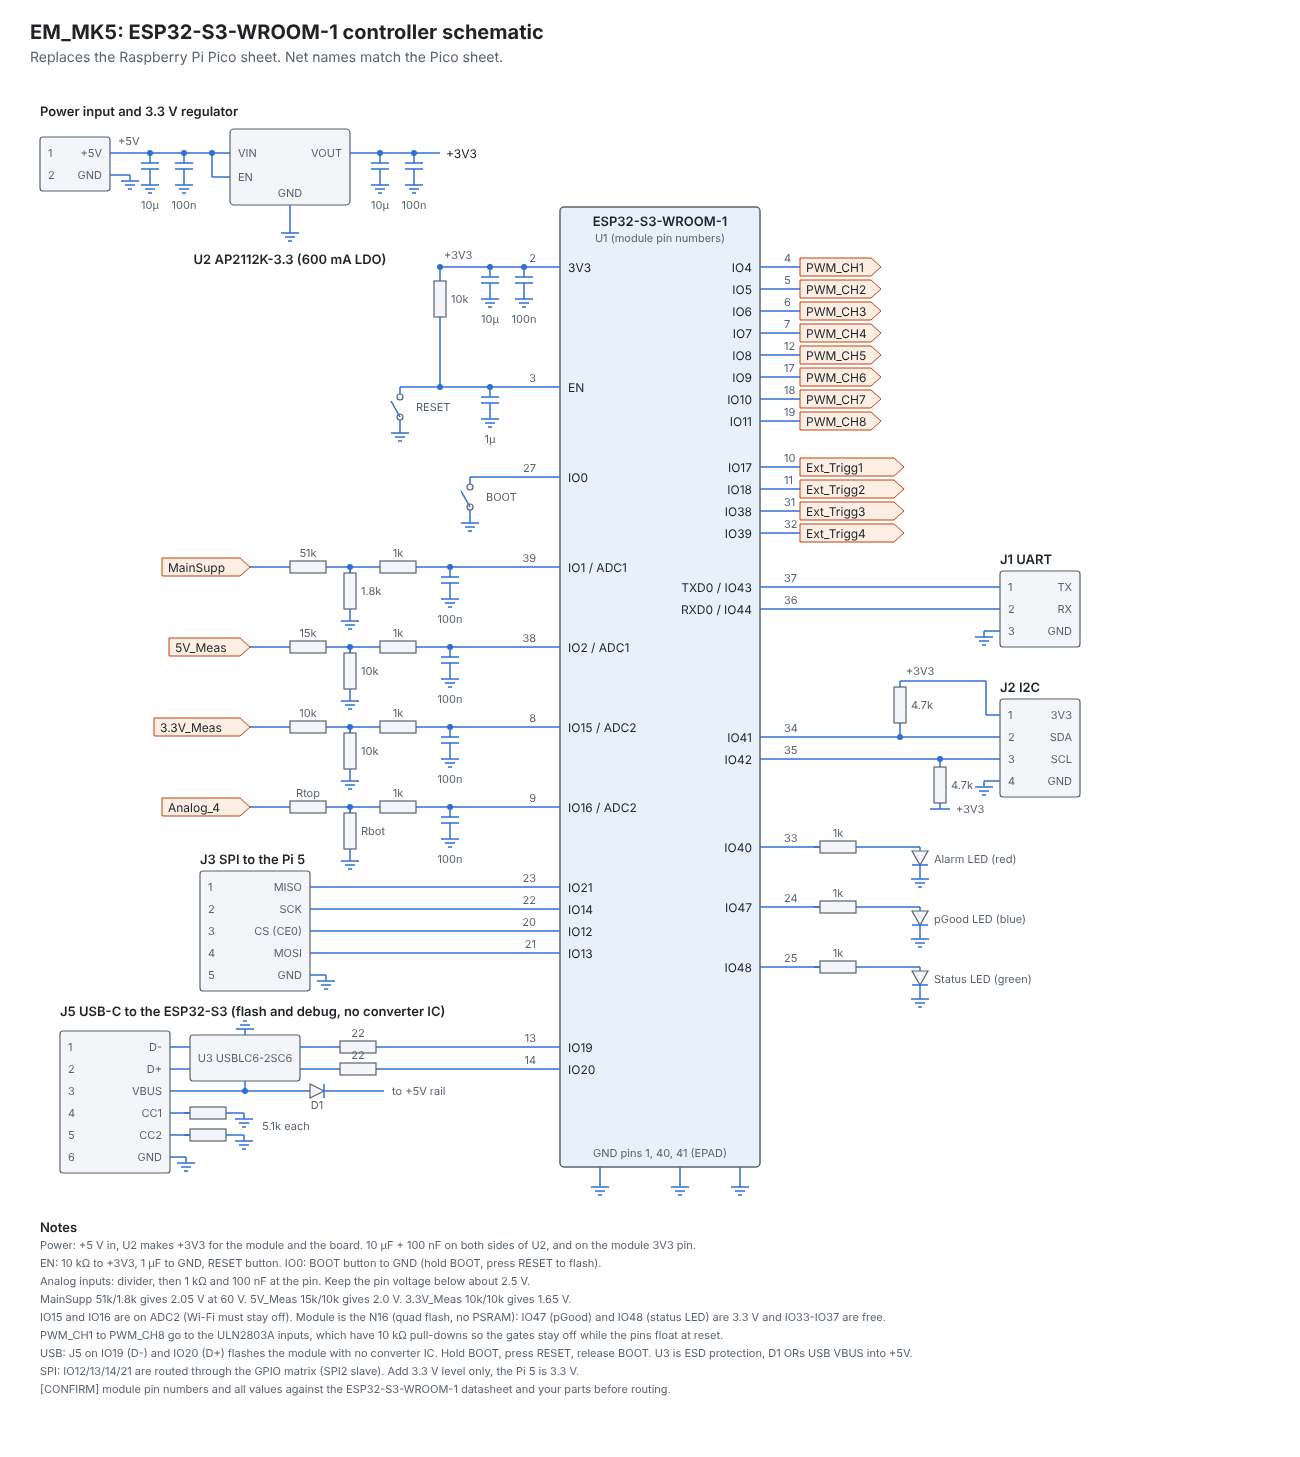
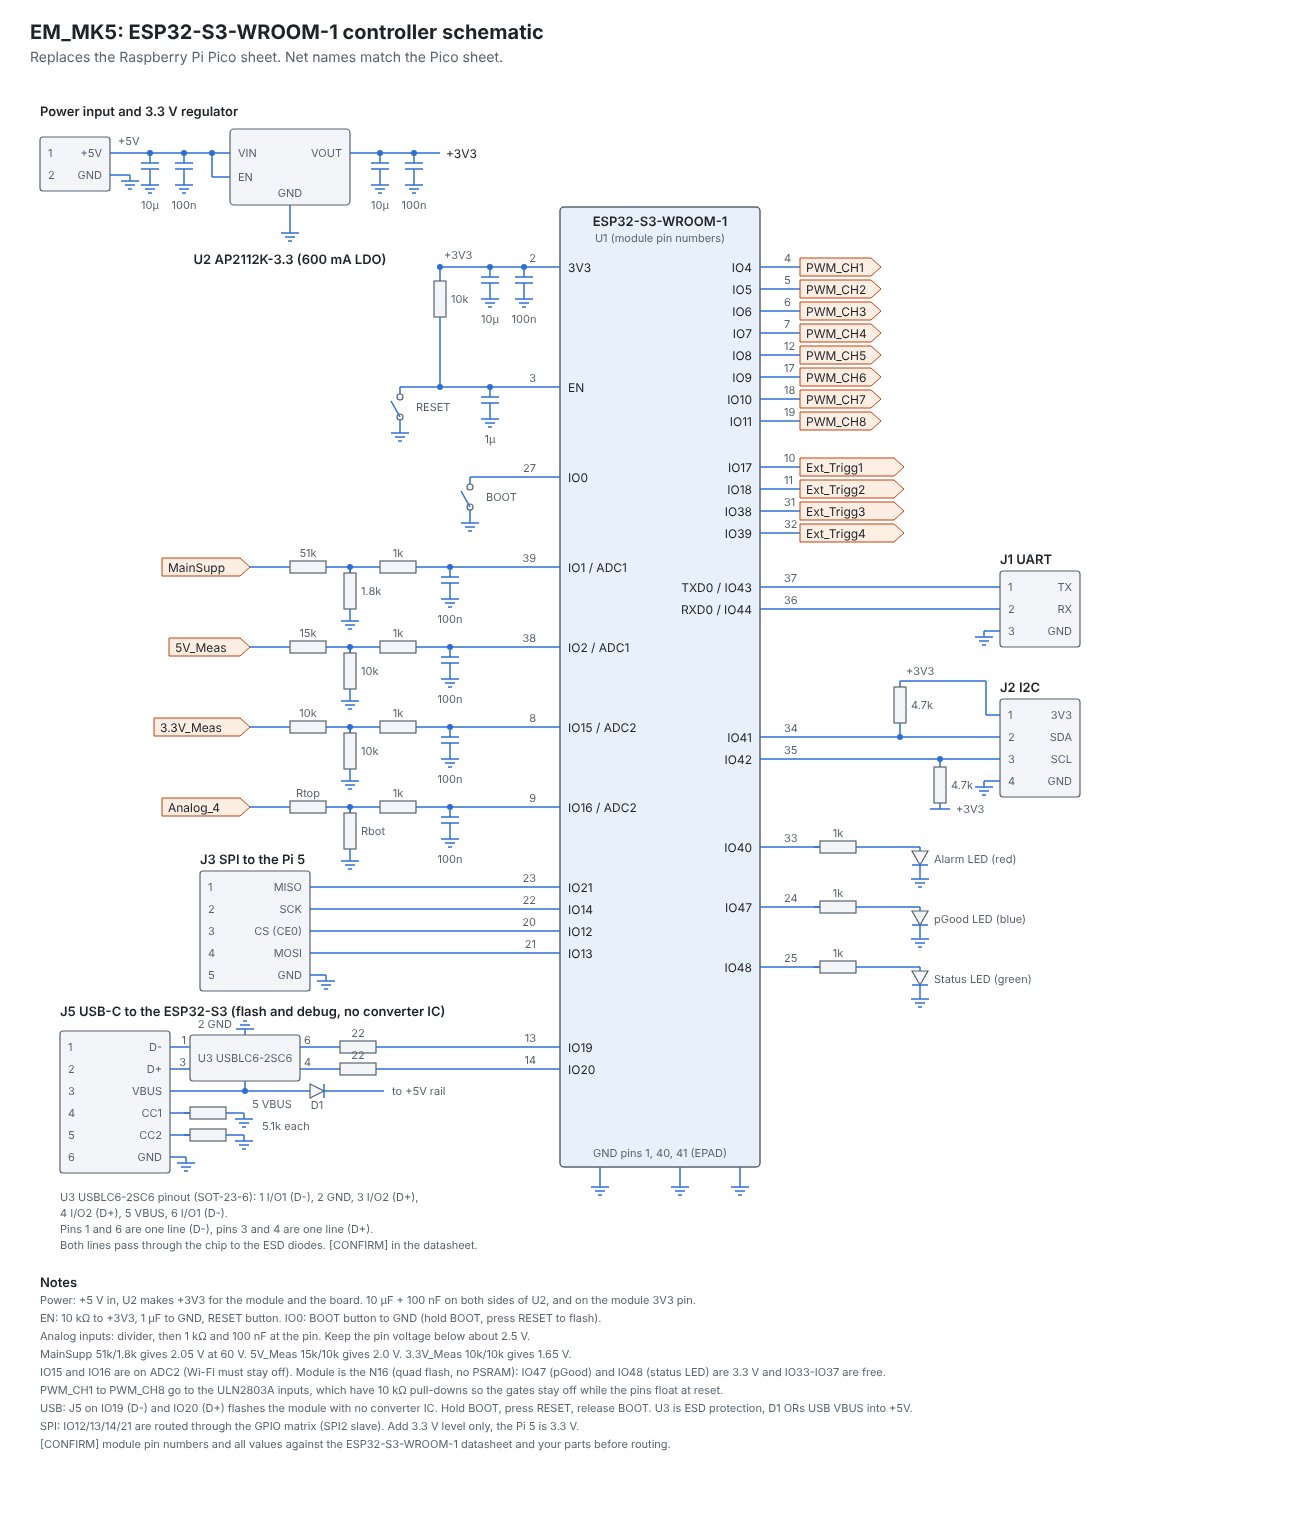
ESP32-S3 schematic: add USBLC6-2SC6 pinout
Claude-Session: https://claude.ai/code/session_0174MNEmDaTV8DPD2QnVHENo

diff --git a/ESP32_S3_schematic.html b/ESP32_S3_schematic.html
@@ -8,7 +8,7 @@ svg{width:100%;max-width:1300px;height:auto;display:block;margin:0 auto}
 .c{stroke:var(--bd);stroke-width:1.2;fill:var(--box)}.m{stroke:var(--bd);stroke-width:1.5;fill:var(--mod)}
 .p{stroke:var(--pb);stroke-width:1;fill:var(--port)}
 .t{font-size:12px;fill:var(--t)}.s{font-size:11px;fill:var(--m)}.th{font-size:13px;font-weight:600;fill:var(--t)}.pt{font-size:12px;fill:var(--t)}
-</style></head><body><h1>EM_MK5: ESP32-S3-WROOM-1 controller schematic</h1><p class="d">Replaces the Raspberry Pi Pico sheet. Net names match the Pico sheet.</p><svg viewBox="0 0 1300 1380" role="img" aria-label="EM_MK5 ESP32-S3 controller schematic"><rect class="m" x="560" y="130" width="200" height="960" rx="4"/>
+</style></head><body><h1>EM_MK5: ESP32-S3-WROOM-1 controller schematic</h1><p class="d">Replaces the Raspberry Pi Pico sheet. Net names match the Pico sheet.</p><svg viewBox="0 0 1300 1440" role="img" aria-label="EM_MK5 ESP32-S3 controller schematic"><rect class="m" x="560" y="130" width="200" height="960" rx="4"/>
 <text class="th" x="660.0" y="144" text-anchor="middle" dominant-baseline="central">ESP32-S3-WROOM-1</text>
 <text class="s" x="660.0" y="161" text-anchor="middle" dominant-baseline="central">U1 (module pin numbers)</text>
 <line class="w" x1="600" y1="1090" x2="600" y2="1104"/>
@@ -531,6 +531,16 @@ svg{width:100%;max-width:1300px;height:auto;display:block;margin:0 auto}
 <text class="s" x="162" y="1080" text-anchor="end" dominant-baseline="central">GND</text>
 <rect class="c" x="190" y="958" width="110" height="46" rx="3"/>
 <text class="s" x="245" y="981" text-anchor="middle" dominant-baseline="central">U3 USBLC6-2SC6</text>
+<text class="s" x="186" y="963" text-anchor="end" dominant-baseline="central">1</text>
+<text class="s" x="186" y="985" text-anchor="end" dominant-baseline="central">3</text>
+<text class="s" x="304" y="963" text-anchor="start" dominant-baseline="central">6</text>
+<text class="s" x="304" y="985" text-anchor="start" dominant-baseline="central">4</text>
+<text class="s" x="232" y="947" text-anchor="end" dominant-baseline="central">2 GND</text>
+<text class="s" x="252" y="1027" text-anchor="start" dominant-baseline="central">5 VBUS</text>
+<text class="s" x="60" y="1120" text-anchor="start" dominant-baseline="central">U3 USBLC6-2SC6 pinout (SOT-23-6): 1 I/O1 (D-), 2 GND, 3 I/O2 (D+),</text>
+<text class="s" x="60" y="1136" text-anchor="start" dominant-baseline="central">4 I/O2 (D+), 5 VBUS, 6 I/O1 (D-).</text>
+<text class="s" x="60" y="1152" text-anchor="start" dominant-baseline="central">Pins 1 and 6 are one line (D-), pins 3 and 4 are one line (D+).</text>
+<text class="s" x="60" y="1168" text-anchor="start" dominant-baseline="central">Both lines pass through the chip to the ESD diodes. [CONFIRM] in the datasheet.</text>
 <line class="w" x1="170" y1="970" x2="190" y2="970"/>
 <line class="w" x1="300" y1="970" x2="334" y2="970"/>
 <line class="w" x1="334" y1="970" x2="340" y2="970"/>
@@ -607,13 +617,13 @@ svg{width:100%;max-width:1300px;height:auto;display:block;margin:0 auto}
 <line class="w" x1="915" y1="926" x2="925" y2="926"/>
 <line class="w" x1="918" y1="930" x2="922" y2="930"/>
 <text class="s" x="934" y="902" text-anchor="start" dominant-baseline="central">Status LED (green)</text>
-<text class="th" x="40" y="1150" text-anchor="start" dominant-baseline="central">Notes</text>
-<text class="s" x="40" y="1168" text-anchor="start" dominant-baseline="central">Power: +5 V in, U2 makes +3V3 for the module and the board. 10 µF + 100 nF on both sides of U2, and on the module 3V3 pin.</text>
-<text class="s" x="40" y="1186" text-anchor="start" dominant-baseline="central">EN: 10 kΩ to +3V3, 1 µF to GND, RESET button. IO0: BOOT button to GND (hold BOOT, press RESET to flash).</text>
-<text class="s" x="40" y="1204" text-anchor="start" dominant-baseline="central">Analog inputs: divider, then 1 kΩ and 100 nF at the pin. Keep the pin voltage below about 2.5 V.</text>
-<text class="s" x="40" y="1222" text-anchor="start" dominant-baseline="central">MainSupp 51k/1.8k gives 2.05 V at 60 V. 5V_Meas 15k/10k gives 2.0 V. 3.3V_Meas 10k/10k gives 1.65 V.</text>
-<text class="s" x="40" y="1240" text-anchor="start" dominant-baseline="central">IO15 and IO16 are on ADC2 (Wi-Fi must stay off). Module is the N16 (quad flash, no PSRAM): IO47 (pGood) and IO48 (status LED) are 3.3 V and IO33-IO37 are free.</text>
-<text class="s" x="40" y="1258" text-anchor="start" dominant-baseline="central">PWM_CH1 to PWM_CH8 go to the ULN2803A inputs, which have 10 kΩ pull-downs so the gates stay off while the pins float at reset.</text>
-<text class="s" x="40" y="1276" text-anchor="start" dominant-baseline="central">USB: J5 on IO19 (D-) and IO20 (D+) flashes the module with no converter IC. Hold BOOT, press RESET, release BOOT. U3 is ESD protection, D1 ORs USB VBUS into +5V.</text>
-<text class="s" x="40" y="1294" text-anchor="start" dominant-baseline="central">SPI: IO12/13/14/21 are routed through the GPIO matrix (SPI2 slave). Add 3.3 V level only, the Pi 5 is 3.3 V.</text>
-<text class="s" x="40" y="1312" text-anchor="start" dominant-baseline="central">[CONFIRM] module pin numbers and all values against the ESP32-S3-WROOM-1 datasheet and your parts before routing.</text></svg></body></html>
+<text class="th" x="40" y="1205" text-anchor="start" dominant-baseline="central">Notes</text>
+<text class="s" x="40" y="1223" text-anchor="start" dominant-baseline="central">Power: +5 V in, U2 makes +3V3 for the module and the board. 10 µF + 100 nF on both sides of U2, and on the module 3V3 pin.</text>
+<text class="s" x="40" y="1241" text-anchor="start" dominant-baseline="central">EN: 10 kΩ to +3V3, 1 µF to GND, RESET button. IO0: BOOT button to GND (hold BOOT, press RESET to flash).</text>
+<text class="s" x="40" y="1259" text-anchor="start" dominant-baseline="central">Analog inputs: divider, then 1 kΩ and 100 nF at the pin. Keep the pin voltage below about 2.5 V.</text>
+<text class="s" x="40" y="1277" text-anchor="start" dominant-baseline="central">MainSupp 51k/1.8k gives 2.05 V at 60 V. 5V_Meas 15k/10k gives 2.0 V. 3.3V_Meas 10k/10k gives 1.65 V.</text>
+<text class="s" x="40" y="1295" text-anchor="start" dominant-baseline="central">IO15 and IO16 are on ADC2 (Wi-Fi must stay off). Module is the N16 (quad flash, no PSRAM): IO47 (pGood) and IO48 (status LED) are 3.3 V and IO33-IO37 are free.</text>
+<text class="s" x="40" y="1313" text-anchor="start" dominant-baseline="central">PWM_CH1 to PWM_CH8 go to the ULN2803A inputs, which have 10 kΩ pull-downs so the gates stay off while the pins float at reset.</text>
+<text class="s" x="40" y="1331" text-anchor="start" dominant-baseline="central">USB: J5 on IO19 (D-) and IO20 (D+) flashes the module with no converter IC. Hold BOOT, press RESET, release BOOT. U3 is ESD protection, D1 ORs USB VBUS into +5V.</text>
+<text class="s" x="40" y="1349" text-anchor="start" dominant-baseline="central">SPI: IO12/13/14/21 are routed through the GPIO matrix (SPI2 slave). Add 3.3 V level only, the Pi 5 is 3.3 V.</text>
+<text class="s" x="40" y="1367" text-anchor="start" dominant-baseline="central">[CONFIRM] module pin numbers and all values against the ESP32-S3-WROOM-1 datasheet and your parts before routing.</text></svg></body></html>
